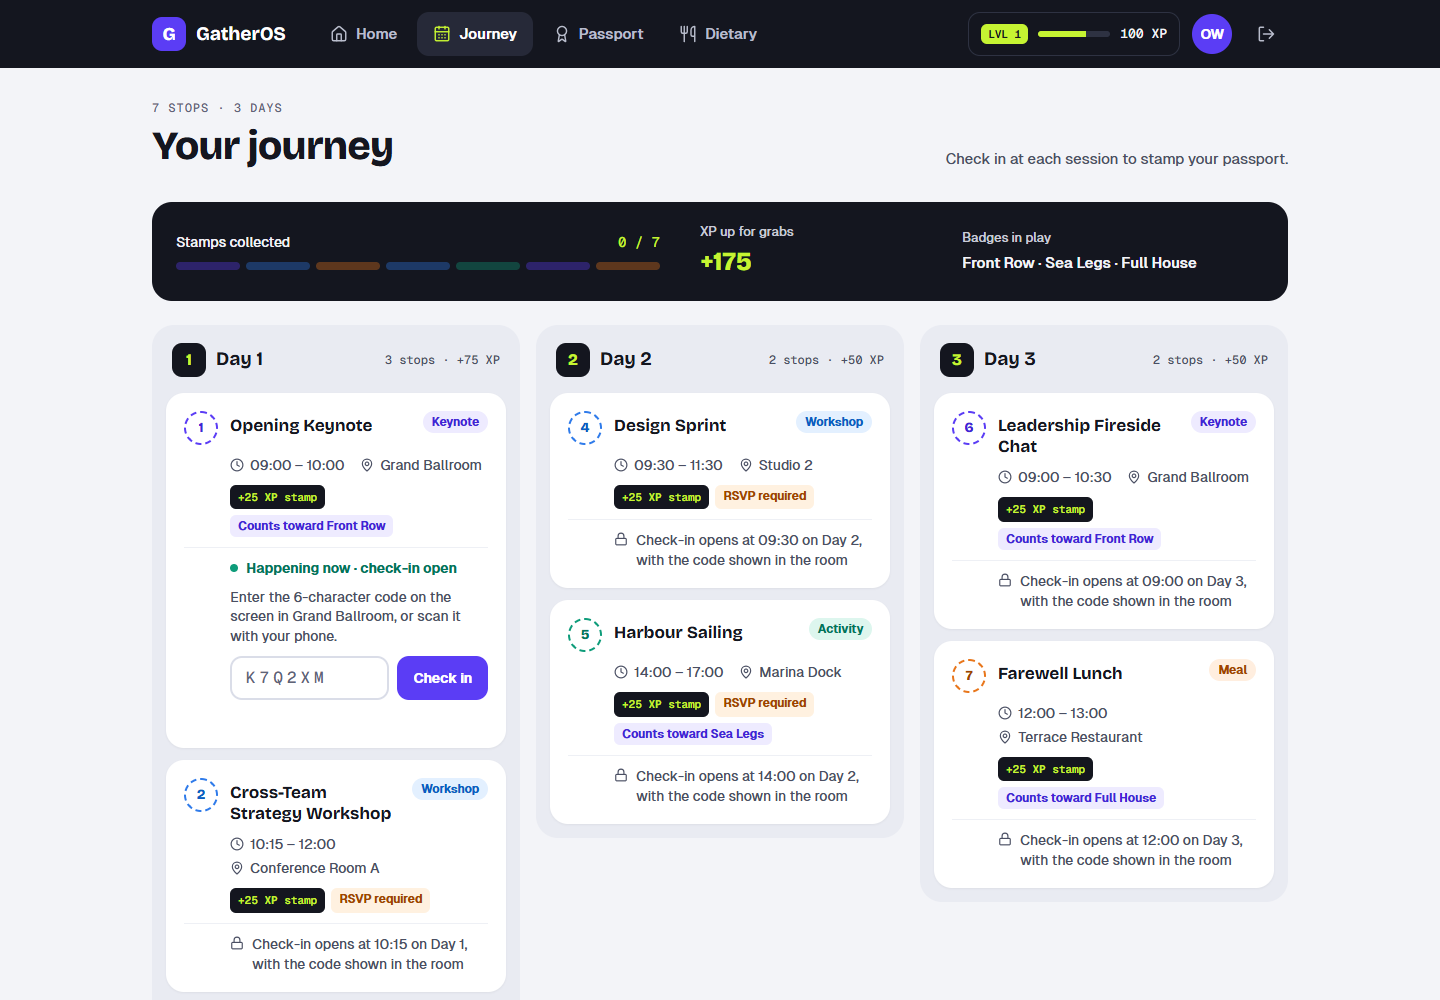
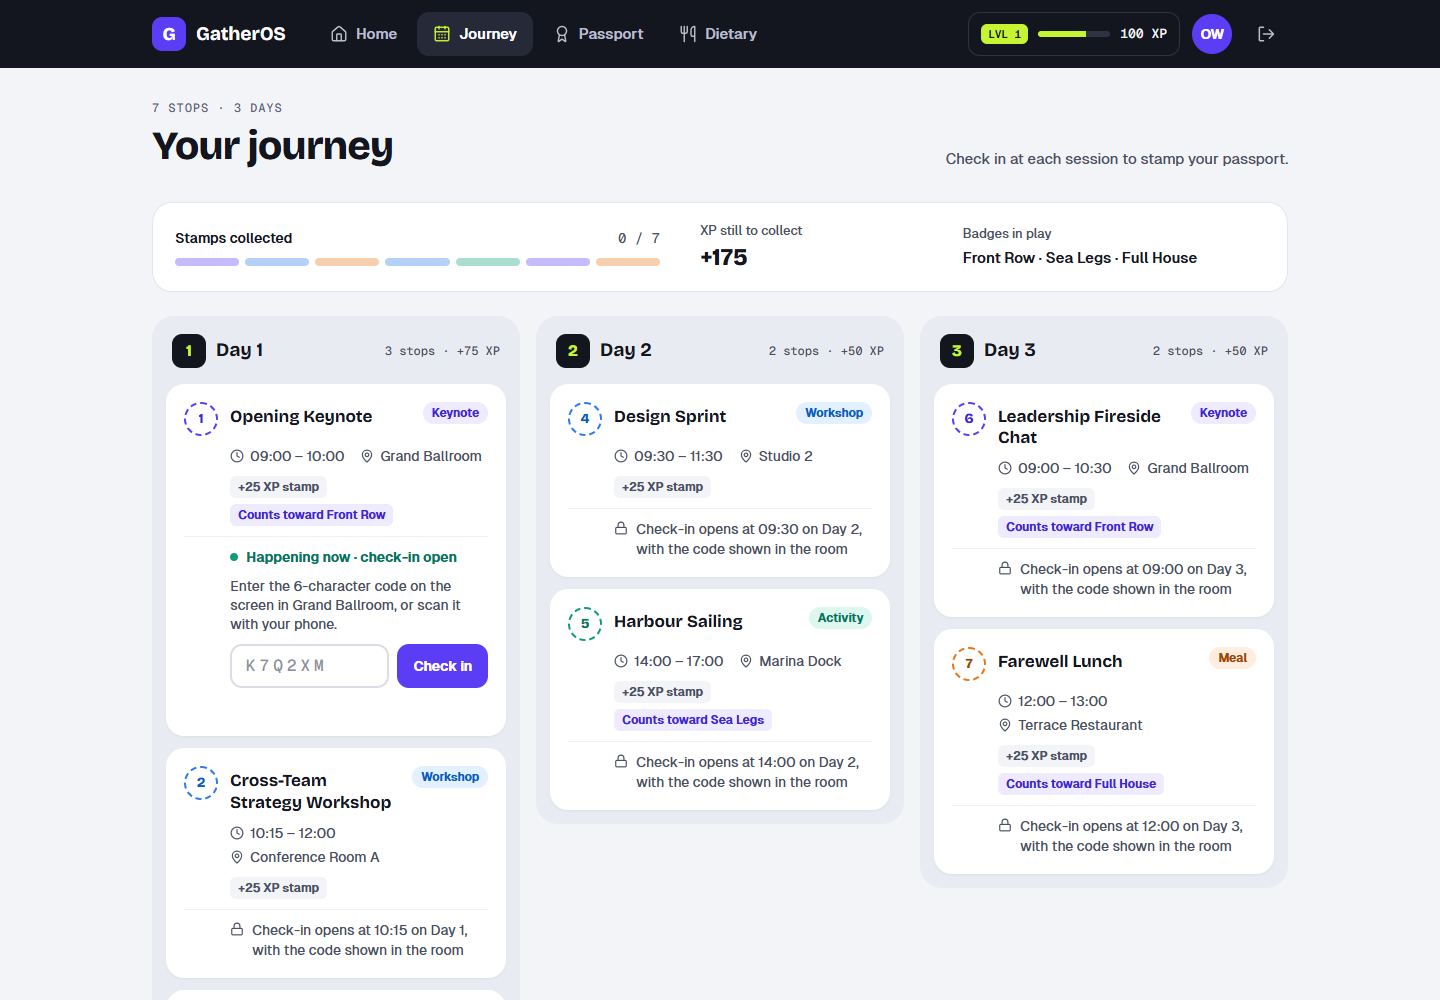
feat: add the stamp strip to the phone sign-in and refresh the README images

diff --git a/client/src/views/Login.tsx b/client/src/views/Login.tsx
@@ -39,23 +39,37 @@ const DEMO_ACCOUNTS: DemoAccount[] = [
   },
 ];
 
+/** Seven stops: the first three stamped in the category colours, the rest still to come. Purely decorative. */
+function StampStrip({ size, className = '' }: { size: 'phone' | 'wide'; className?: string }) {
+  const circle = size === 'phone' ? 'size-6.5' : 'size-8.5';
+  const tick = size === 'phone' ? 12 : 16;
+  return (
+    <div data-testid="stamp-strip" className={`inline-flex rounded-full ${className}`} aria-hidden="true">
+      {['bg-brand', 'bg-blue', 'bg-orange'].map((color) => (
+        <span key={color} className={`flex items-center justify-center rounded-full ${circle} ${color}`}>
+          <svg
+            width={tick}
+            height={tick}
+            viewBox="0 0 24 24"
+            fill="none"
+            className="stroke-white"
+            strokeWidth="2.8"
+            strokeLinecap="round"
+            strokeLinejoin="round"
+          >
+            <path d="M5 12.5 10 17 19 7" />
+          </svg>
+        </span>
+      ))}
+      {[0, 1, 2, 3].map((index) => (
+        <span key={index} className={`rounded-full border-2 border-dashed border-body ${circle}`} />
+      ))}
+    </div>
+  );
+}
+
 /** Decorative preview on the brand panel. Numbers are illustrative, not live data. */
 function BrandPreview() {
-  const check = (
-    <svg
-      width="16"
-      height="16"
-      viewBox="0 0 24 24"
-      fill="none"
-      className="stroke-white"
-      strokeWidth="2.8"
-      strokeLinecap="round"
-      strokeLinejoin="round"
-    >
-      <path d="M5 12.5 10 17 19 7" />
-    </svg>
-  );
-
   return (
     <div className="relative h-75 max-w-130" aria-hidden="true">
       <div className="absolute top-0 left-0 flex w-82 -rotate-3 flex-col gap-2.5 rounded-[20px] border border-ink-line bg-ink-raised p-4.5">
@@ -93,16 +107,7 @@ function BrandPreview() {
         </div>
       </div>
 
-      <div className="absolute bottom-0 left-0 flex gap-2.5 rounded-full border border-ink-line bg-ink-raised px-3.5 py-2.5">
-        {['bg-brand', 'bg-blue', 'bg-orange'].map((color) => (
-          <span key={color} className={`flex size-8.5 items-center justify-center rounded-full ${color}`}>
-            {check}
-          </span>
-        ))}
-        {[0, 1, 2, 3].map((index) => (
-          <span key={index} className="size-8.5 rounded-full border-2 border-dashed border-body" />
-        ))}
-      </div>
+      <StampStrip size="wide" className="absolute bottom-0 left-0 gap-2.5 border border-ink-line bg-ink-raised px-3.5 py-2.5" />
     </div>
   );
 }
@@ -166,11 +171,15 @@ export default function Login() {
         className="flex min-w-0 flex-[999_1_480px] items-center justify-center px-6 py-12"
       >
         <div className="flex w-full max-w-110 flex-col gap-7">
-          <div className="flex items-center gap-3 lg:hidden">
-            <span className="flex size-10 items-center justify-center rounded-xl bg-brand font-display text-[21px] font-extrabold text-white">
-              G
-            </span>
-            <span className="font-display text-[22px] font-bold">GatherOS</span>
+          {/* On a phone the brand panel is not shown, so the logo and the stamp strip stand in for it. Decorative. */}
+          <div className="flex flex-col items-start gap-3.5 lg:hidden" aria-hidden="true">
+            <div className="flex items-center gap-3">
+              <span className="flex size-10 items-center justify-center rounded-xl bg-brand font-display text-[21px] font-extrabold text-white">
+                G
+              </span>
+              <span className="font-display text-[22px] font-bold">GatherOS</span>
+            </div>
+            <StampStrip size="phone" className="gap-1.75 bg-ink px-3.75 py-2" />
           </div>
 
           <div>

diff --git a/e2e/sign-in.spec.ts b/e2e/sign-in.spec.ts
@@ -38,3 +38,65 @@ for (const [name, size] of [
     });
   });
 }
+
+test.describe('the stamp strip under the logo on a phone', () => {
+  test.use({ viewport: { width: 390, height: 844 } });
+
+  test('sits between the logo and "Welcome back", with seven 26px circles', async ({ page }) => {
+    await page.goto('/login');
+    const heading = page.getByRole('heading', { level: 1, name: 'Welcome back' });
+    await expect(heading).toBeVisible();
+
+    const strip = page.locator('[data-testid="stamp-strip"]:visible');
+    await expect(strip).toBeVisible();
+    const circles = strip.locator(':scope > span');
+    await expect(circles).toHaveCount(7);
+    for (const circle of await circles.all()) {
+      const box = await circle.boundingBox();
+      expect(Math.round(box?.width ?? 0)).toBe(26);
+      expect(Math.round(box?.height ?? 0)).toBe(26);
+    }
+
+    // The first three are filled violet, blue and orange; the other four are empty with dashed borders.
+    const fills = await circles.evaluateAll((all) => all.map((el) => getComputedStyle(el).backgroundColor));
+    expect(new Set(fills.slice(0, 3)).size).toBe(3);
+    expect(fills.slice(0, 3)).not.toContain('rgba(0, 0, 0, 0)');
+    const borders = await circles.evaluateAll((all) => all.map((el) => getComputedStyle(el).borderTopStyle));
+    expect(borders.slice(3)).toEqual(['dashed', 'dashed', 'dashed', 'dashed']);
+
+    // Directly under the logo and above the heading.
+    const logo = await page.locator('span:visible', { hasText: /^GatherOS$/ }).first().boundingBox();
+    const pill = await strip.boundingBox();
+    const title = await heading.boundingBox();
+    expect(pill!.y).toBeGreaterThan(logo!.y + logo!.height - 1);
+    expect(pill!.y + pill!.height).toBeLessThan(title!.y);
+  });
+
+  test('is decorative: the logo and strip are hidden from assistive technology, the h1 is the page title', async ({ page }) => {
+    await page.goto('/login');
+    // The strip and the logo beside it share one hidden block.
+    const block = page.locator('div[aria-hidden="true"]').filter({ has: page.locator('[data-testid="stamp-strip"]:visible') });
+    await expect(block.first()).toContainText('GatherOS');
+    await expect(page.getByRole('heading', { level: 1 })).toHaveText('Welcome back');
+    // Only the Welcome back heading is exposed as a level-1 heading; the logo text is not.
+    await expect(page.getByRole('heading', { level: 1 })).toHaveCount(1);
+  });
+
+  test('fits the screen', async ({ page }) => {
+    await page.goto('/login');
+    await expect(page.locator('[data-testid="stamp-strip"]:visible')).toBeVisible();
+    expect(await page.evaluate(() => document.documentElement.scrollWidth <= document.documentElement.clientWidth)).toBe(true);
+  });
+});
+
+test.describe('the stamp strip on a wide screen', () => {
+  test.use({ viewport: { width: 1440, height: 1000 } });
+
+  test('is only in the brand panel, at its larger size, not repeated above the form', async ({ page }) => {
+    await page.goto('/login');
+    await expect(page.getByRole('heading', { level: 1, name: 'Welcome back' })).toBeVisible();
+    await expect(page.locator('[data-testid="stamp-strip"]:visible')).toHaveCount(1);
+    const visibleStrips = await page.locator('[data-testid="stamp-strip"]:visible').count();
+    expect(visibleStrips).toBe(1);
+  });
+});

diff --git a/README.md b/README.md
@@ -75,7 +75,7 @@
 ### For attendees (phone and desktop)
 
 - **Home.** Level, rank and XP at a glance. The RSVP is a quest ("Are you in?") with an optimistic UI that responds instantly and rolls back on failure. A pre-trip checklist and a "first stop" teaser follow. On desktop the page becomes two columns with a "Day 1 at a glance" card.
-- **Journey.** On a phone: day tabs and a stop-by-stop timeline. On desktop: a stamp progress strip and one column per day; a trip longer than three days is paged three days at a time, with the same jump bar and side strips as the planner's board, and opens on the page with the live or next session. Check-in opens when a session starts and closes when it ends. While one is live, **scan the QR code** on the room screen with your phone's camera, or **type the six-character code** (on desktop, or when the camera is unavailable), to collect its stamp and XP.
+- **Journey.** On a phone: day tabs and a stop-by-stop timeline. On desktop: a stamp progress strip and one column per day; a trip longer than three days is paged three days at a time, with the same jump bar and side strips as the planner's board, and opens on the page with the live or next session. Check-in opens when a session starts and closes when it ends. While one is live, **scan the QR code** on the room screen with your phone's camera, or **type the six-character code** (on desktop, or when the camera is unavailable), to collect its stamp and XP. Anyone who has declined or not yet answered sees an **RSVP to check in** button there instead.
 - **Passport.** Your stamps, six badges (Early Responder, Fuelled Up, Jet Set, Front Row, Sea Legs, Full House) and a **team race** showing the share of each department that is going. On desktop it opens with a hero of XP, stamps and badges.
 - **Dietary quest.** Four large options, saved instantly, with a "Meals on this trip" list.
 - Touch targets of at least 44px. A four-tab bottom navigation on phones and a top navigation bar, with your level and XP, on desktop.
@@ -276,9 +276,9 @@ All routes are under `/api`. Errors share one shape: `{ "error": { "code", "mess
 
 ## Testing and CI
 
-**Unit tests (Vitest, 217 tests).** They cover the rules that matter most: re-timing (client and server copies), XP and levels, quests and badges, milestones, host ranks and budget status, and check-in: the event clock, the rotating room code, the refusal rules and QR payload parsing. Run them with `npm run test:unit`.
+**Unit tests (Vitest, 239 tests).** They cover the rules that matter most: re-timing (client and server copies), XP and levels, quests and badges, milestones, host ranks and budget status, and check-in: the event clock, the rotating room code, the refusal rules and QR payload parsing. Run them with `npm run test:unit`.
 
-**End-to-end (Playwright).** Nine specs run against a server whose clock is pinned, so the opening keynote is always live. [`e2e/checkin-flow.spec.ts`](e2e/checkin-flow.spec.ts) opens a planner's room code, then checks an attendee in on desktop (locked and live sessions, a wrong code, the right code) and on a phone without a camera (the check-in page falls back to typing the code). The journey in [`e2e/offsite-flow.spec.ts`](e2e/offsite-flow.spec.ts) covers the planner and RSVP side:
+**End-to-end (Playwright).** Twelve specs run against a server whose clock is pinned, so the opening keynote is always live. [`e2e/checkin-flow.spec.ts`](e2e/checkin-flow.spec.ts) opens a planner's room code, then checks an attendee in on desktop (locked and live sessions, a wrong code, the right code) and on a phone without a camera (the check-in page falls back to typing the code). The journey in [`e2e/offsite-flow.spec.ts`](e2e/offsite-flow.spec.ts) covers the planner and RSVP side:
 
 1. Inject a signed planner cookie to bypass the login screen.
 2. Intercept `POST /api/ai/generate-schedule` with `page.route()` and return a hardcoded valid response.
@@ -295,6 +295,12 @@ All routes are under `/api`. Errors share one shape: `{ "error": { "code", "mess
 [`e2e/planner-mobile.spec.ts`](e2e/planner-mobile.spec.ts) covers the planner on a phone and a tablet: the top bar and tab bar, a dashboard and roster with nothing sticking out sideways or overlapping, the board one day at a time (including a resize and a touch drag), and the roster cards with search, filters and Nudge.
 
 [`e2e/room-preview.spec.ts`](e2e/room-preview.spec.ts) checks that the Code link appears only on the live session, that a session which is not live keeps its "Not live yet" notice, and that the sample room screens step through the sessions, show `TEST42` and never ask the server for a real code.
+
+[`e2e/attendee-home.spec.ts`](e2e/attendee-home.spec.ts) checks Home on a phone and a desktop: the RSVP card first until the person accepts, quest XP drawn as earned, open or waiting, the per-screen subtitles and the quest links.
+
+[`e2e/journey-rsvp.spec.ts`](e2e/journey-rsvp.spec.ts) checks the Journey: "RSVP to check in" instead of the code for anyone not going, the light progress card, grey stamp chips and the code field's hint colour.
+
+[`e2e/passport-dietary-focus.spec.ts`](e2e/passport-dietary-focus.spec.ts) checks the Passport (badge wording, EARNED only, the team race gap), the Dietary helper line and layout, and that a click or tap never leaves a focus ring on the navigation.
 
 [`e2e/sign-out-icon.spec.ts`](e2e/sign-out-icon.spec.ts) checks that every sign-out control (planner sidebar, planner phone menu, both attendee bars) uses the design's arrow-leaving-a-bracket icon.
 
